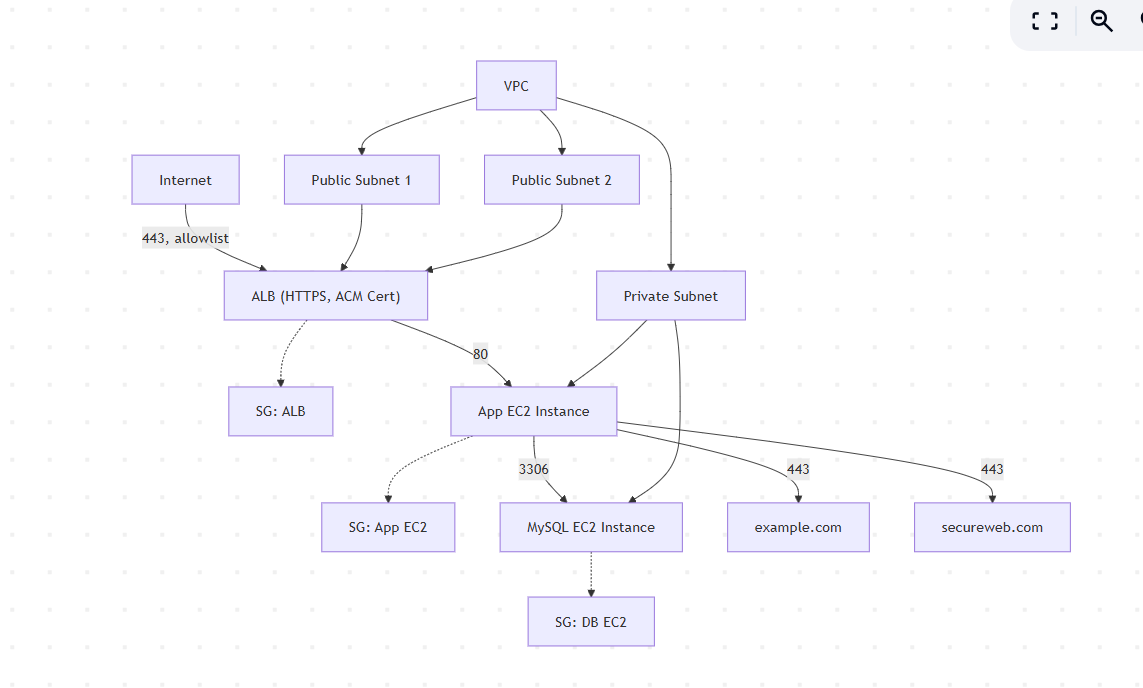
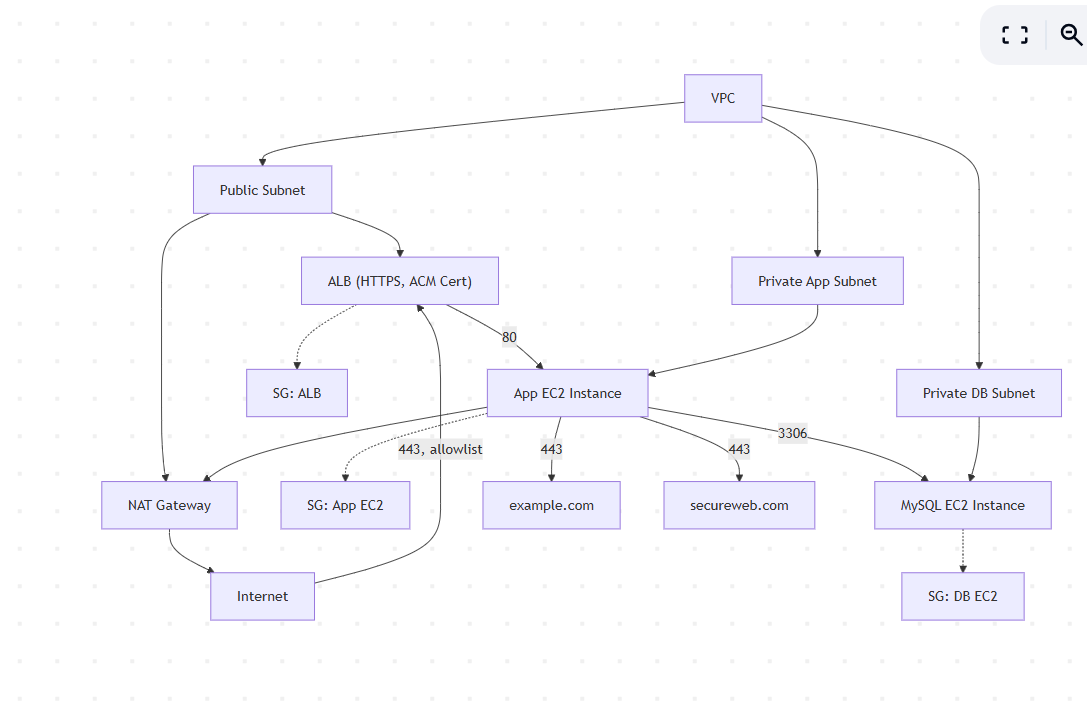
add architecture diagram

diff --git a/Business-context.md b/Business-context.md
@@ -30,8 +30,7 @@ EC2 App instance
 EC2 MySQL instance
 ALB (HTTPS, with ACM cert)
 Security Groups
-Route tables / IGW / NAT Gateway
-Replace ASG with single EC2 (allowed by task)
+route tables
 
 
 ## Security controls to satisfy PCI 1.3.1 & 1.3.2
